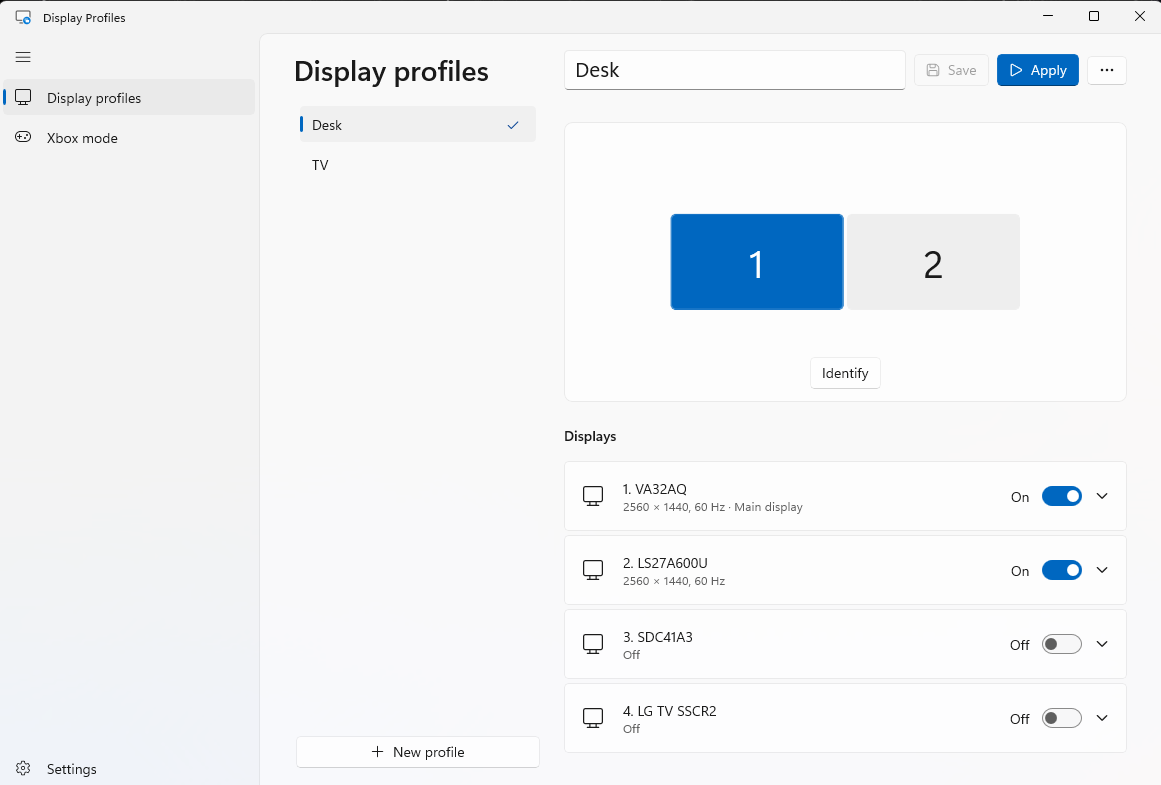
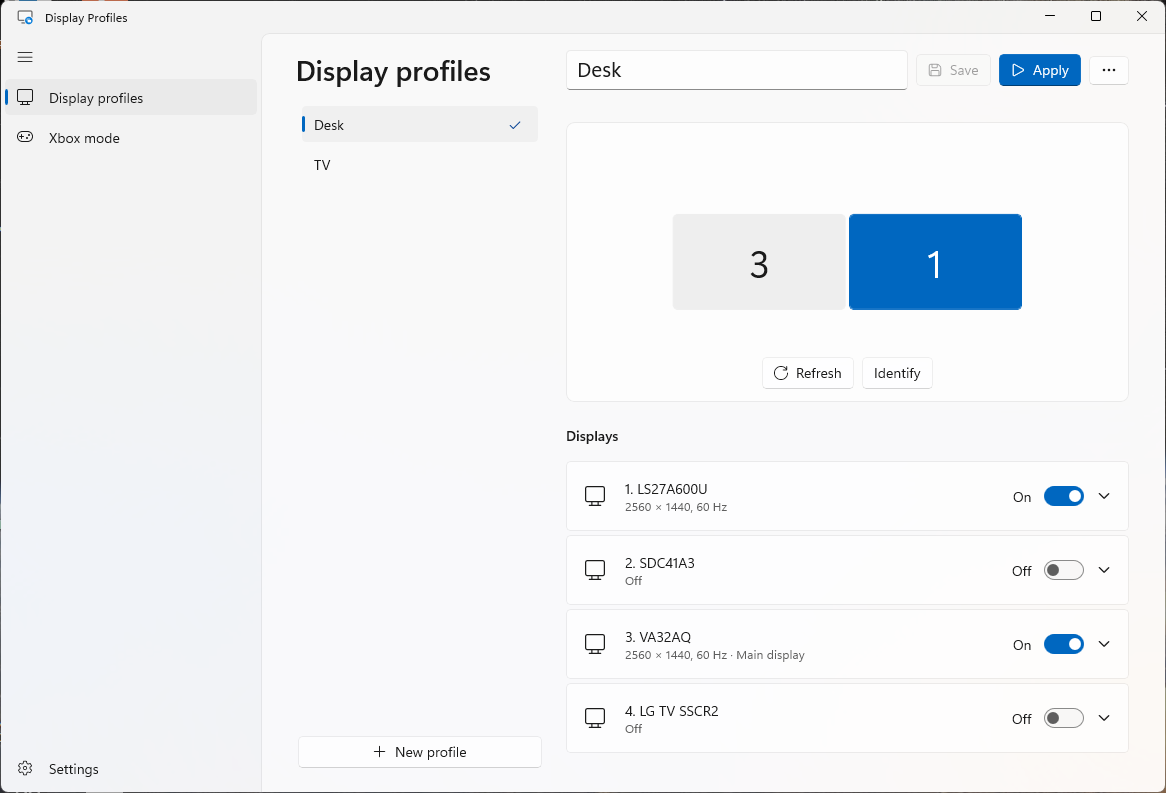
Update the README and screenshots for duplicates, Refresh and Identify

diff --git a/README.md b/README.md
@@ -30,8 +30,10 @@ a TV for gaming, and an Xbox controller.
 
 ## Features
 
-- **Profile editor** with a draggable, snapping monitor map like Settings > Display, per-display on/off, main display,
-  resolution, refresh rate and orientation, and a choice of extending the desktop or duplicating another display.
+- **Profile editor** with a draggable, snapping monitor map like Settings > Display (drop a display between two others to
+  insert it), per-display on/off, main display, resolution, refresh rate and orientation, and a choice of extending the
+  desktop or duplicating another display. Duplicated displays share their settings and show one tile such as "3|4", and
+  **Identify** and **Refresh** work like their Settings counterparts.
   Edits stay in the editor until you press **Save**, so you can try a layout
   with **Apply** before deciding to keep it.
 - **Safe applying.** The app checks that every monitor really came up (retrying if a TV is slow to wake), restores your
@@ -45,6 +47,10 @@ a TV for gaming, and an Xbox controller.
 
 <p align="center">
   <img src="docs/images/display-options.png" alt="Per-display options" width="49%" />
+  <img src="docs/images/duplicate-displays.png" alt="Duplicating a display: the pair shares its settings and shows as one tile" width="49%" />
+</p>
+
+<p align="center">
   <img src="docs/images/xbox-mode-page.png" alt="Choosing the profiles for Xbox mode" width="49%" />
 </p>
 
